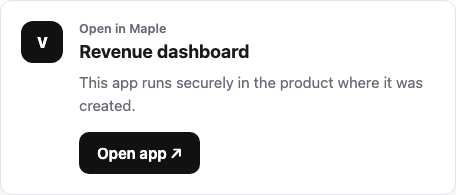
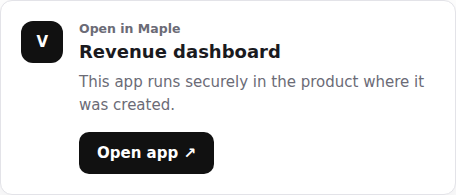
fix(ui): the blocked-sign-in notice is keyed per connect, not shared
Greptile P1. `blocked` was one panel-wide value while `busy` beside it was
already per-key, and the connect-ahead chips / Reconnect buttons disable per
key — so two connects run at once by design. With two refused windows the
second link overwrote the first while the first was still polling and still
finishable, and whichever settled first cleared the other outright.

Keyed exactly like `busy` now, and only the settling connect's own key clears.
One notice per connect still waiting, each naming its own service. That closes
both halves by construction — which matters because the clear-on-settle half
cannot be built against the wire fixture: every `initiate` answers with the same
`ca_new`, so two concurrent connects share one broker account and always settle
together.

An affordance disappearing while it is still the only way through is the exact
defect this PR exists to remove, so it had no business surviving inside it.

diff --git a/packages/ui/src/chrome/connected-accounts-panel.tsx b/packages/ui/src/chrome/connected-accounts-panel.tsx
@@ -97,11 +97,12 @@ export function ConnectedAccountsPanel({ undoMs = 10_000 }: ConnectedAccountsPan
   const [severing, setSevering] = useState<Record<string, Severing | undefined>>({});
   const [busy, setBusy] = useState<Record<string, boolean>>({});
   const [error, setError] = useState<string>();
-  // The browser refused the sign-in window for the connect in flight. `url` is
-  // the broker's own redirect, known only once initiate lands — the fallback
-  // link needs it WHILE the poll runs. One shared notice, the same altitude as
-  // `error`, because it names the service it belongs to.
-  const [blocked, setBlocked] = useState<{ name: string; url?: string }>();
+  // Connects whose sign-in window the browser refused, keyed like `busy` — the
+  // buttons disable per key, so two can run at once, and a shared notice would
+  // let the second connect erase a link the first still needs. `url` is the
+  // broker's own redirect, known only once initiate lands: the fallback link
+  // needs it WHILE the poll runs.
+  const [blocked, setBlocked] = useState<Record<string, { name: string; url?: string } | undefined>>({});
   // Accounts the WIRE has confirmed gone. The list read that follows a sever is
   // not what proves it: `useResource` keeps its last good page when a refresh
   // fails, which would put the row back wearing a Connected chip.
@@ -228,21 +229,23 @@ export function ConnectedAccountsPanel({ undoMs = 10_000 }: ConnectedAccountsPan
    */
   const connect = async (key: string, name: string, input: { toolkit: string; connector?: string }) => {
     const popup = openConnectPopup();
+    const clearBlocked = () => setBlocked(current => ({ ...current, [key]: undefined }));
     setError(undefined);
-    setBlocked(popup === null ? { name } : undefined);
+    setBlocked(current => ({ ...current, [key]: popup === null ? { name } : undefined }));
     setBusy(current => ({ ...current, [key]: true }));
     try {
       await completeConnection(client, input, () => cancelled.current, popup, url => {
-        if (popup === null && !cancelled.current) setBlocked({ name, url });
+        if (popup === null && !cancelled.current) setBlocked(current => ({ ...current, [key]: { name, url } }));
       });
       if (cancelled.current) return;
-      setBlocked(undefined);
+      clearBlocked();
       await refresh();
     } catch (reason) {
       if (!cancelled.current) {
-        // The flow is over, so the link is stale — a fresh initiate is what a
-        // retry needs, and the refusal copy says so.
-        setBlocked(undefined);
+        // This connect is over, so its link is stale — a fresh initiate is what a
+        // retry needs, and the refusal copy says so. Only THIS key clears: a
+        // sibling connect may still be waiting on its own sign-in.
+        clearBlocked();
         setError(connectRefusalCopy(reason, name));
       }
     } finally {
@@ -273,18 +276,19 @@ export function ConnectedAccountsPanel({ undoMs = 10_000 }: ConnectedAccountsPan
       <section aria-labelledby="vendo-accounts-heading" style={{ display: "flex", flexDirection: "column", gap: 12 }}>
         <h2 id="vendo-accounts-heading" className="fl-auto-title" style={{ margin: 0 }}>Connected accounts</h2>
         {error ? <div role="alert" className="fl-error">{error}</div> : null}
-        {blocked ? (
+        {Object.entries(blocked).map(([key, entry]) => entry === undefined ? null : (
           // The window never opened, but the connect did: the poll is running on
-          // the same account, so the same URL in a tab finishes it.
-          <div role="status" className="fl-connect-blocked">
-            <span>Your browser blocked the {blocked.name} sign-in window. Open it yourself — we’ll pick it up from here.</span>
-            {blocked.url === undefined ? null : (
-              <a className="fl-btn fl-btn-primary" href={blocked.url} target="_blank" rel="noreferrer">
+          // that account, so the same URL in a tab finishes it. One notice per
+          // connect still waiting — each names its own service.
+          <div key={key} role="status" className="fl-connect-blocked">
+            <span>Your browser blocked the {entry.name} sign-in window. Open it yourself — we’ll pick it up from here.</span>
+            {entry.url === undefined ? null : (
+              <a className="fl-btn fl-btn-primary" href={entry.url} target="_blank" rel="noreferrer">
                 Open sign-in in a new tab
               </a>
             )}
           </div>
-        ) : null}
+        ))}
         {rows.length === 0 ? (
           <div className="fl-acct-ghost">
             <span className="fl-acct-ghost-title">No connected accounts yet</span>
